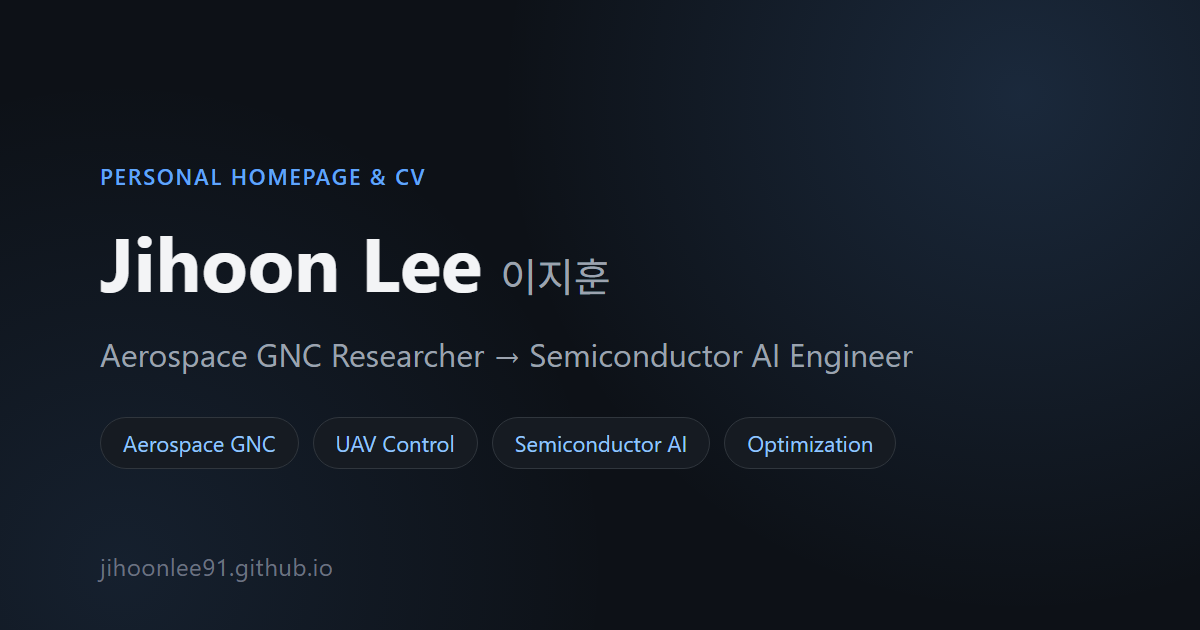
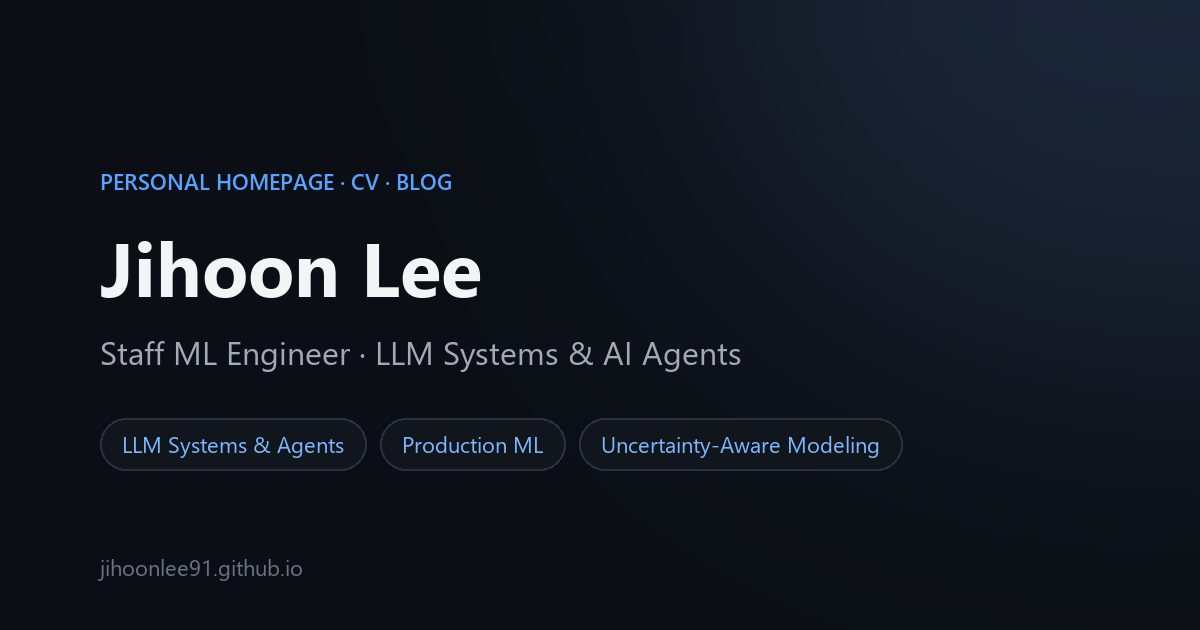
Link-preview card and citation counts match the current profile
- The 1200x630 card shown when the site is shared (LinkedIn, Slack, X)
  still read "Jihoon Lee 이지훈 — Aerospace GNC Researcher → Semiconductor
  AI Engineer". It now shows the current headline and interests, and
  scripts/make_og_card.py rebuilds it from papers.json so it can't drift
  again.
- Google Scholar snapshot refreshed (Sep. → Nov. 2026): 239 citations,
  h-index 9, and five papers' counts (e.g. TAES 2019 carrier landing 86 → 87,
  AIAA SciTech 2019 LPV 28 → 30).

diff --git a/scripts/make_og_card.py b/scripts/make_og_card.py
@@ -1,0 +1,60 @@
+"""Render assets/og-card.png, the 1200x630 link-preview card for every page
+without its own figure (Home, CV, Blog index, ...).
+
+Not part of the site build. Dev dependency: `pip install pillow`. Uses Segoe UI
+from C:\\Windows\\Fonts (pass --font-dir to use another folder with
+segoeui.ttf / segoeuib.ttf / seguisb.ttf).
+
+Text comes from papers.json (name, identity_tag, interests) so the card can't
+drift from the site again — until 2026-11-04 it still showed the Korean name
+and the old "Semiconductor AI Engineer" headline after the site moved on.
+"""
+import argparse
+import json
+import os
+
+from PIL import Image, ImageDraw, ImageFilter, ImageFont
+
+ROOT = os.path.dirname(os.path.dirname(os.path.abspath(__file__)))
+W, H = 1200, 630
+X0 = 100
+
+
+def main():
+    ap = argparse.ArgumentParser()
+    ap.add_argument("--font-dir", default=r"C:\Windows\Fonts")
+    args = ap.parse_args()
+    font = lambda name, size: ImageFont.truetype(os.path.join(args.font_dir, name), size)
+    with open(os.path.join(ROOT, "papers.json"), encoding="utf-8") as f:
+        data = json.load(f)
+
+    # dark background with a soft blue glow in the top-right corner
+    img = Image.new("RGB", (W, H), "#0b0f15")
+    glow = Image.new("RGB", (W, H), "#0b0f15")
+    ImageDraw.Draw(glow).ellipse((700, -350, 1500, 350), fill="#1b2638")
+    img = Image.blend(img, glow.filter(ImageFilter.GaussianBlur(160)), 1.0)
+    d = ImageDraw.Draw(img)
+
+    d.text((X0, 166), "PERSONAL HOMEPAGE · CV · BLOG", font=font("seguisb.ttf", 22), fill="#5aa2ff")
+    d.text((X0, 214), data["name"], font=font("segoeuib.ttf", 76), fill="#f3f4f6")
+    d.text((X0, 330), data["identity_tag"], font=font("segoeui.ttf", 32), fill="#a3aab5")
+
+    x, y = X0, 418
+    pill_font = font("segoeui.ttf", 22)
+    for tag in data.get("interests", []):
+        tw = d.textlength(tag, font=pill_font)
+        box = (x, y, x + tw + 44, y + 52)
+        if box[2] > W - 60:
+            break
+        d.rounded_rectangle(box, radius=26, fill="#11161d", outline="#2a313b", width=2)
+        d.text((x + 22, y + 11), tag, font=pill_font, fill="#7db7ff")
+        x = box[2] + 14
+
+    d.text((X0, 552), "jihoonlee91.github.io", font=font("segoeui.ttf", 22), fill="#6b7280")
+    out = os.path.join(ROOT, "assets", "og-card.png")
+    img.save(out, optimize=True)
+    print(f"wrote {out}")
+
+
+if __name__ == "__main__":
+    main()
